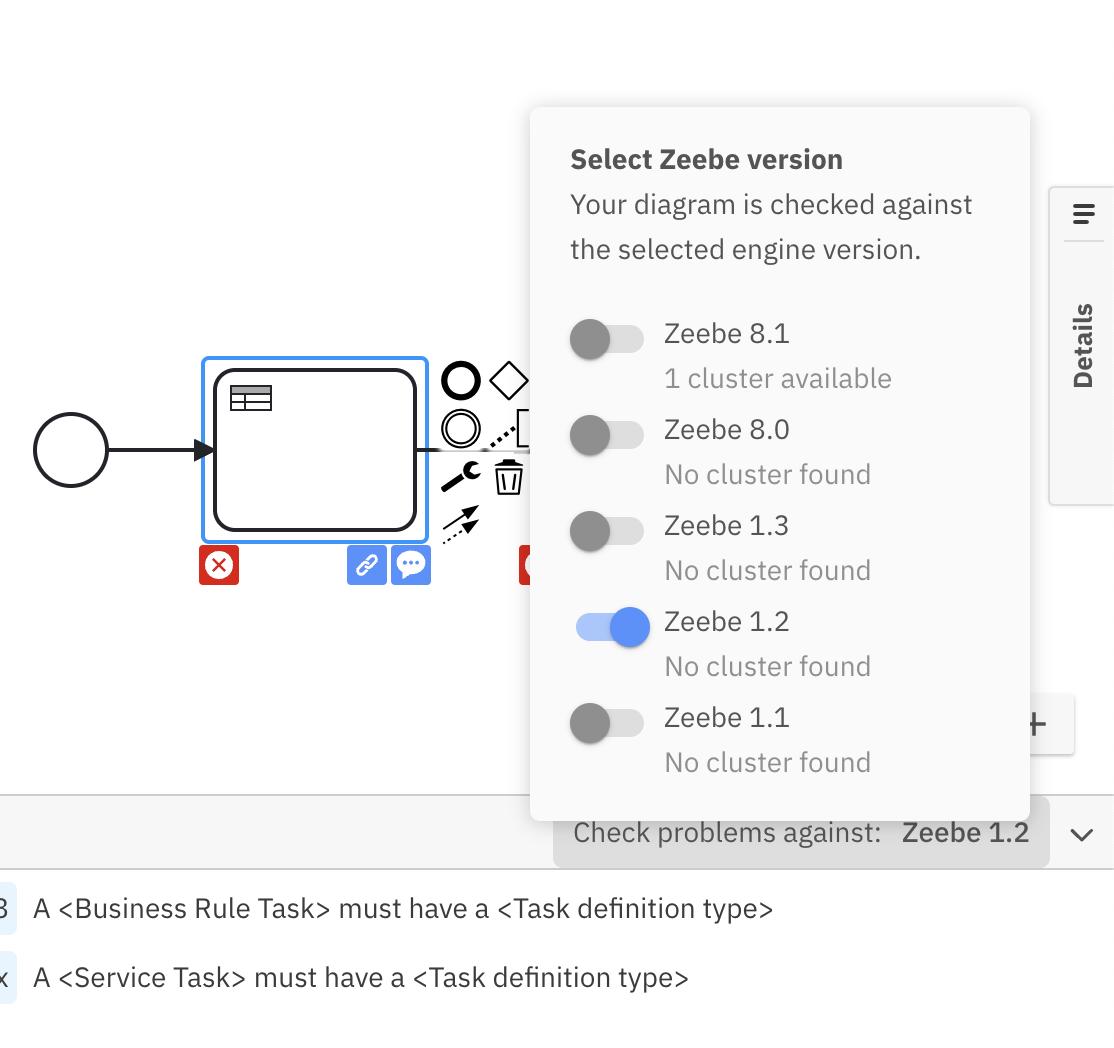
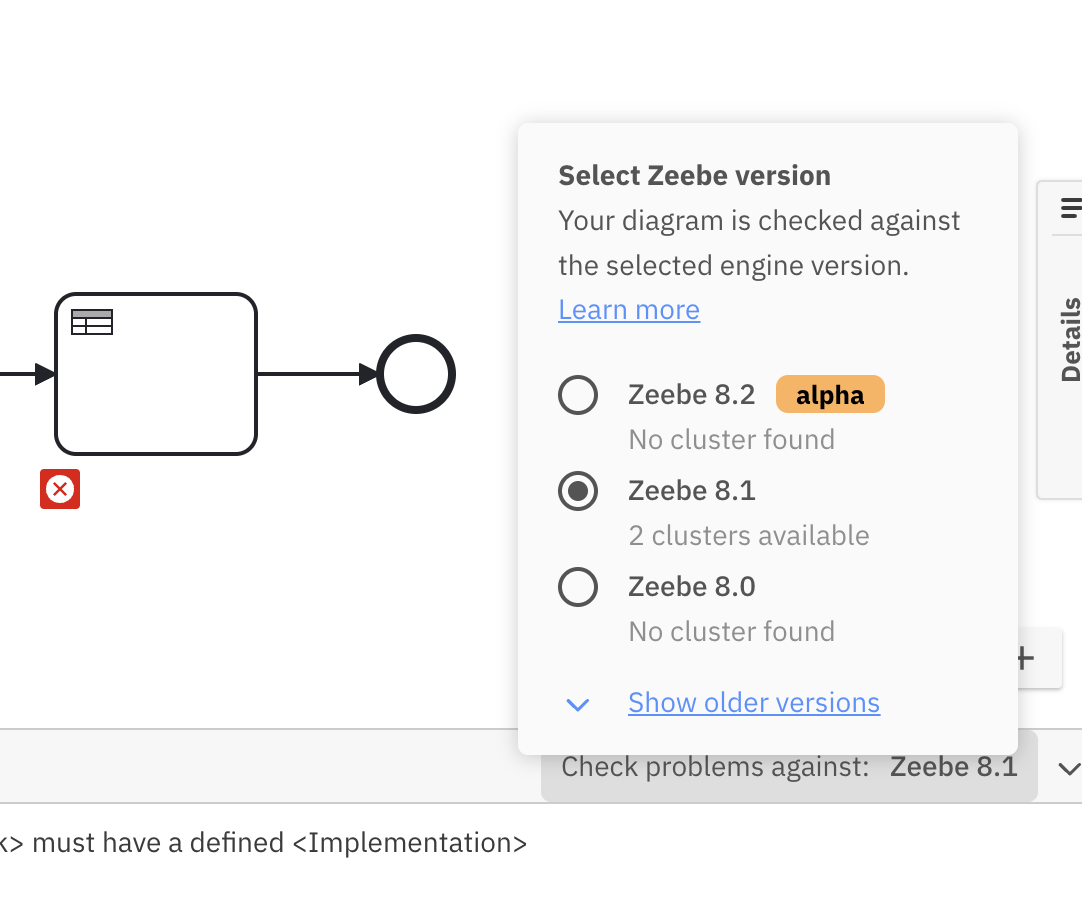
docs(web-modeler): update the text and screenshot in the engine version selection section

diff --git a/docs/components/modeler/web-modeler/fix-problems-in-your-diagram.md b/docs/components/modeler/web-modeler/fix-problems-in-your-diagram.md
@@ -12,7 +12,9 @@ Based on a set of lint rules, Web Modeler continuously validates implementation 
 
 ### Engine version selection
 
-The version selector can be used to choose the Zeebe version the diagram is validated against. The version chosen should match the Zeebe version of the cluster the diagram is going to be deployed in to get the correct set of errors. The version selector also provides information about the number of clusters available for each Zeebe version within the current organization.
+The version selector at the top right in the problems panel can be used to choose the Zeebe version the diagram is validated against. The version chosen should match the Zeebe version of the cluster the diagram is going to be deployed in to get the correct set of errors (if you do not know the version, it is shown alongside the cluster name in the deployment dialog which can be opened by clicking the `Deploy diagram` button).
+
+The version selector also provides information about the number of clusters available for each Zeebe version within the current organization.
 
 ![error panel](img/diagram-errors/version-selector.png)
 

diff --git a/versioned_docs/version-8.1/components/modeler/web-modeler/fix-problems-in-your-diagram.md b/versioned_docs/version-8.1/components/modeler/web-modeler/fix-problems-in-your-diagram.md
@@ -12,7 +12,9 @@ Based on a set of lint rules, Web Modeler continuously validates implementation 
 
 ### Engine version selection
 
-The version selector can be used to choose the Zeebe version the diagram is validated against. The version chosen should match the Zeebe version of the cluster the diagram is going to be deployed in to get the correct set of errors. The version selector also provides information about the number of clusters available for each Zeebe version within the current organization.
+The version selector at the top right in the problems panel can be used to choose the Zeebe version the diagram is validated against. The version chosen should match the Zeebe version of the cluster the diagram is going to be deployed in to get the correct set of errors (if you do not know the version, it is shown alongside the cluster name in the deployment dialog which can be opened by clicking the `Deploy diagram` button).
+
+The version selector also provides information about the number of clusters available for each Zeebe version within the current organization.
 
 ![error panel](img/diagram-errors/version-selector.png)
 
